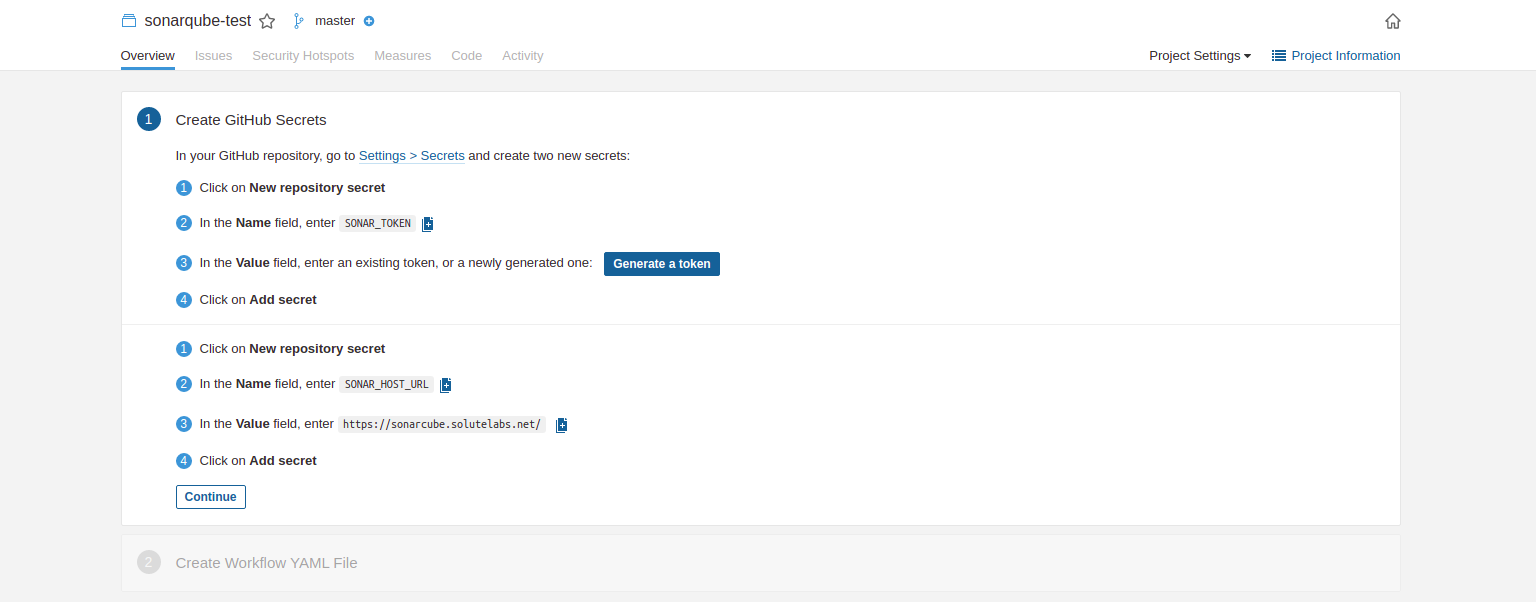
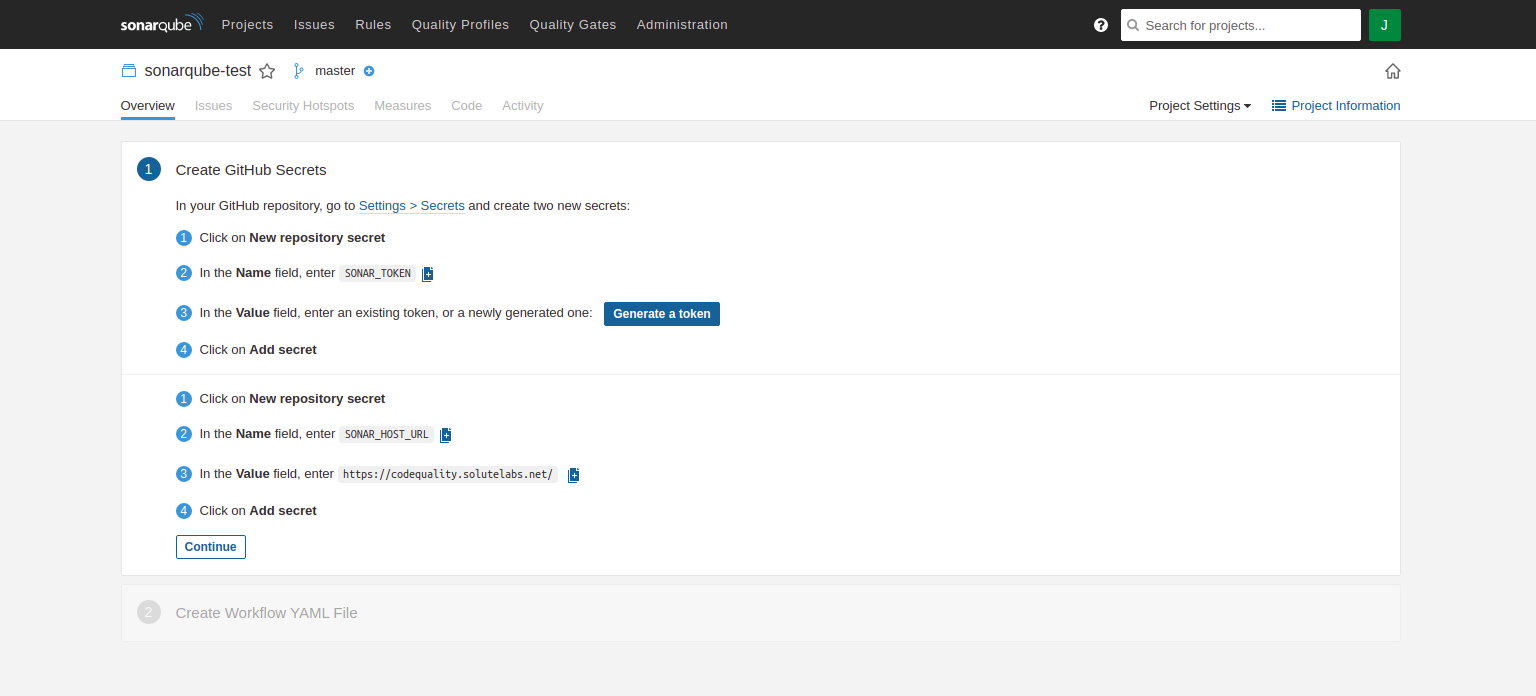
Change Sonar host url

diff --git a/README.md b/README.md
@@ -1,18 +1,18 @@
 # Sonar-Git-setup
 ## Steps to configure sonarqube scans and PR decorations
-1. Login to https://sonarcube.solutelabs.net/ using _Log in with GitHub_ option and approve for _solutelabs app_ installation in your account
+#### 1. Login to https://codequality.solutelabs.net/ using _Log in with GitHub_ option and approve for _solutelabs app_ installation in your account
 ![Login Page](images/Login.png)
 ![Install Application](images/App.png)
-2. After login click on _Add project_ button and select GitHub, in repository dropdown select Solutelabs and look for your repository name and click on _Set up selected repository_
+#### 2. After login click on _Add project_ button and select GitHub, in repository dropdown select Solutelabs and look for your repository name and click on _Set up selected repository_
 ![Install Application](images/Create.png)
 ![Install Application](images/Add_project.png)
 ![Install Application](images/Select_project.png)
-3. Select setup _With GitHub Actions_  and follow the steps mentioned to configure secrets in GitHub
+#### 3. Select setup _With GitHub Actions_  and follow the steps mentioned to configure secrets in GitHub
 ![Install Application](images/Setup_with_actions.png)
 ![Install Application](images/Setup_project.png)
 ![Install Application](images/Token.png)
-4. In GitHub secrets along with _SONAR_HOST_URL_ and _SONAR_TOKEN_, add the following secret as well _SONAR_PROJECT_KEY_ where the value can be found as shown below, 
+#### 4. In GitHub secrets along with _SONAR_HOST_URL_ and _SONAR_TOKEN_, add the following secret as well _SONAR_PROJECT_KEY_ where the value can be found as shown below, 
 ![Install Application](images/Add_secret.png)
-5. For configuring workflows add the analyzeBranch.yml and analyzePR.yml files to .github/workflows/ directory
-6. After configuration of the workflows you can review analysis under PR section
+#### 5. For configuring workflows add the analyzeBranch.yml and analyzePR.yml files to .github/workflows/ directory
+#### 6. After configuration of the workflows you can review analysis under PR section
 ![Install Application](images/PR.png)
